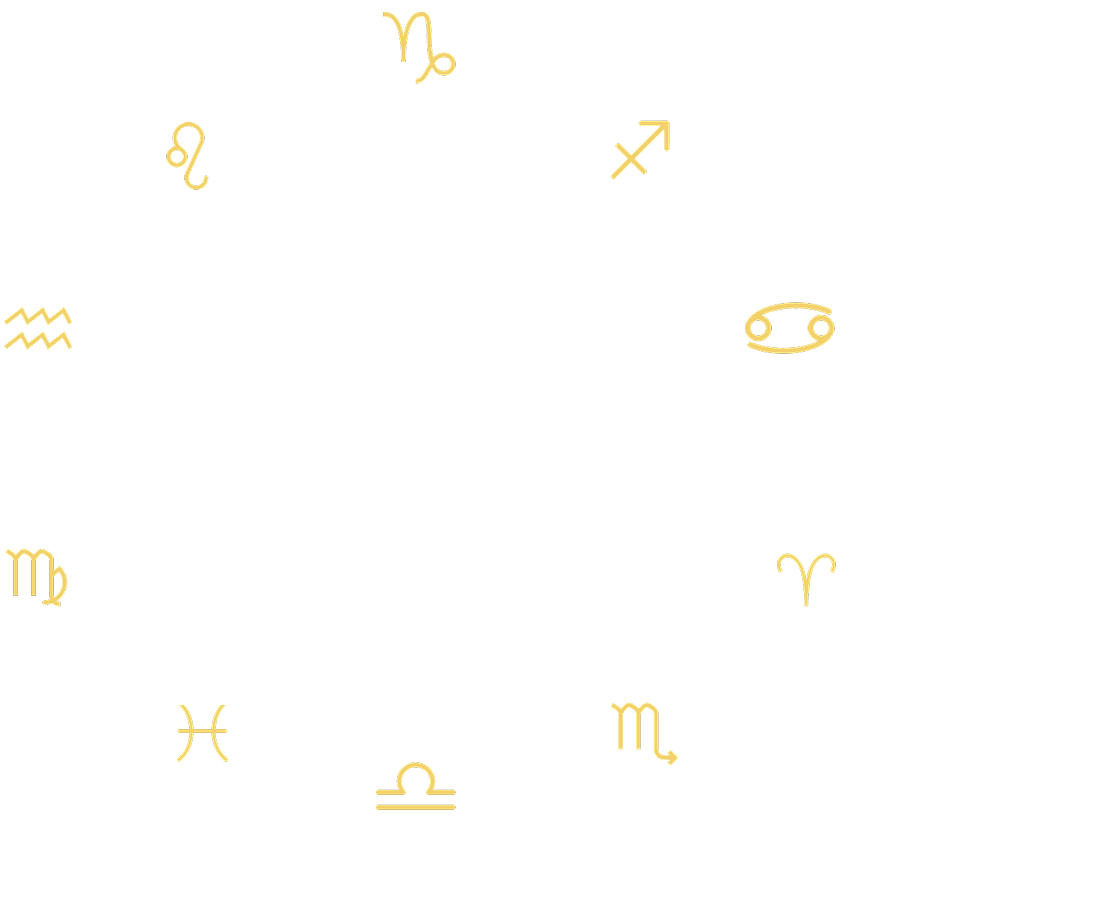
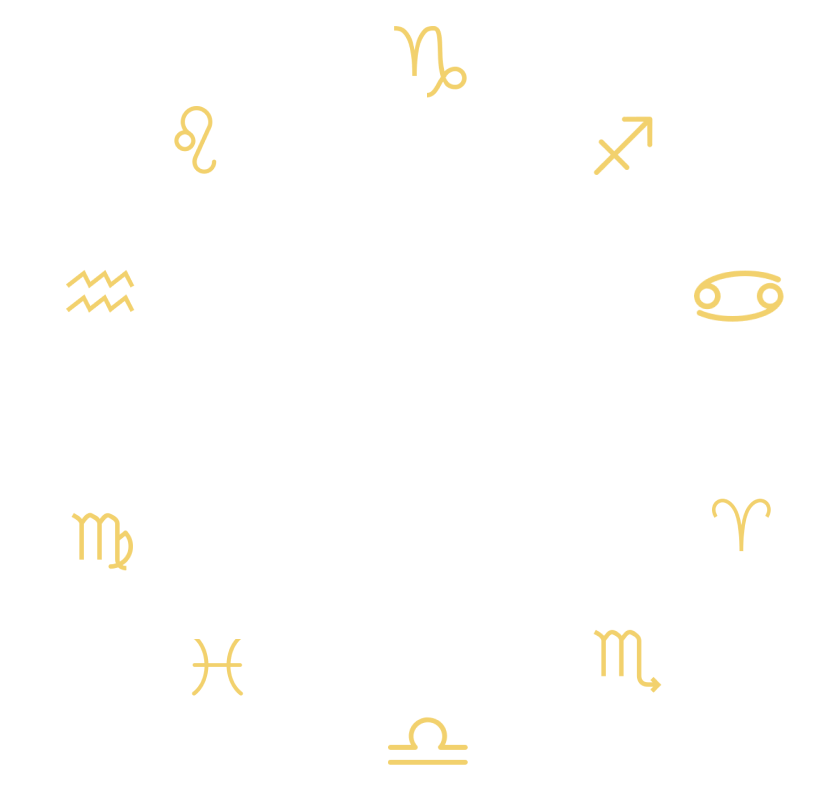
Fer que el zodiac rodi, nova pàgina: home (html), afegir fons pàgina

diff --git a/css/styles.css b/css/styles.css
@@ -15,6 +15,10 @@ body {
 	font-weight: 700;
 }
 
+.home-page {
+	background-image: url('../img/fons%20galaxia%20home.jpg');
+}
+
 /* Improve readability for headings/paragraphs on the gradient */
 h1, p {
 	text-align: center;
@@ -68,13 +72,39 @@ h1, p {
 
 .zodiac-img {
 	position: absolute;
-	top: calc(50% + 30px);
-	left: calc(54% + 20px);
+	top: 50%;
+	left: 50%;
 	transform: translate(-50%, -50%);
-	width: 850px;
-	height: 812px;
+	width: 800px;
+	height: 760px;
 	z-index: 1;
-	padding-left: 50px;
+	animation: rotate 20s linear infinite;
+}
+
+@keyframes rotate {
+	from {
+		transform: translate(-50%, -50%) rotate(0deg);
+	}
+	to {
+		transform: translate(-50%, -50%) rotate(360deg);
+	}
+}
+
+.brand-top-right {
+	position: fixed;
+	top: 16px;
+	right: 24px;
+	color: #F2D16D;
+	font-size: 85px;
+	letter-spacing: 0.12em;
+	text-transform: uppercase;
+	font-family: 'Almendra', serif;
+	font-weight: 700;
+	text-shadow: 0 0 10px rgba(0, 0, 0, 0.35);
+	z-index: 3;
+	display: flex;
+	flex-direction: column;
+	align-items: flex-end;
 }
 
 /* Optional: subtle overlay for even better contrast (uncomment to enable)

diff --git a/home.html b/home.html
@@ -1,0 +1,13 @@
+<!DOCTYPE html>
+<html lang="en">
+<head>
+    <meta charset="UTF-8">
+    <meta name="viewport" content="width=device-width, initial-scale=1.0">
+    <title>NIMI'S TAROT</title>
+    <link href="https://fonts.googleapis.com/css2?family=Almendra:wght@400;700&display=swap" rel="stylesheet">
+    <link rel="stylesheet" href="css/styles.css">
+</head>
+<body class="home-page">
+    <div class="brand-top-right">NIMI'S<br>TAROT</div>
+</body>
+</html>

diff --git a/index.html b/index.html
@@ -9,7 +9,7 @@
 </head>
 <body>
     <div class="button-container">
-        <img src="img/zodiac.png" alt="Zodiac" class="zodiac-img">
+        <img src="img/zodiac 3.png" alt="Zodiac" class="zodiac-img">
         <b2utton class="btn-escollir">ESCOLLIR BARALLA</b2utton>
     </div>
 </body>
